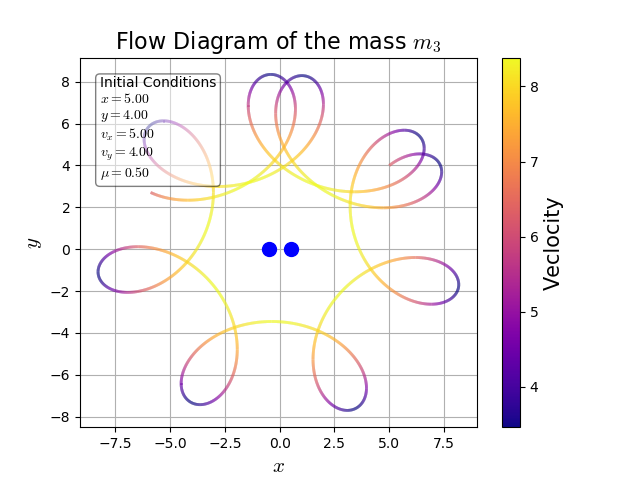
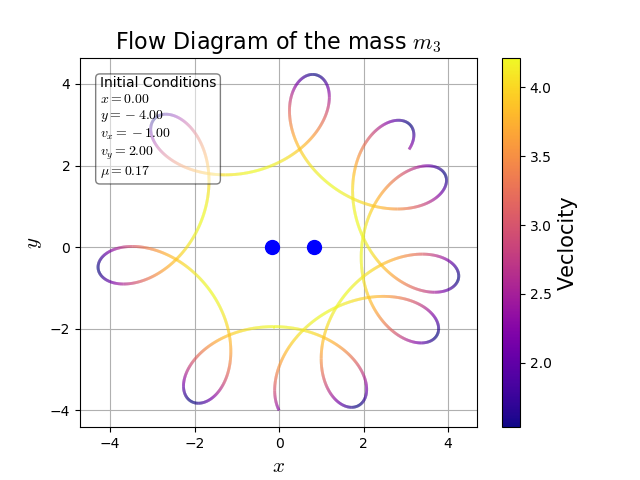
Added new plots

diff --git a/Code/Lagrange_GUI.py b/Code/Lagrange_GUI.py
@@ -152,14 +152,13 @@ class GUI:
             tkinter.messagebox.showerror("Value Error",
                                          "An non-integer or float value as entered . Please only use values that are integers or floats.")
 
-
     def PlotValues(self):
         try:
-            x = int(self.xVal.get())
-            y = int(self.yVal.get())
-            vx = int(self.vxVal.get())
-            vy = int(self.vyVal.get())
-            mu = int(self.muVal.get())
+            x = float(self.xVal.get())
+            y = float(self.yVal.get())
+            vx = float(self.vxVal.get())
+            vy = float(self.vyVal.get())
+            mu = float(self.muVal.get())
 
             filePath = asksaveasfilename(title="Save Plot", filetypes=(("PNG", "*.png"), ("All files", "*")))
             LagrangeFlowPlot([x, y, vx, vy], mu, plotVel.get())
